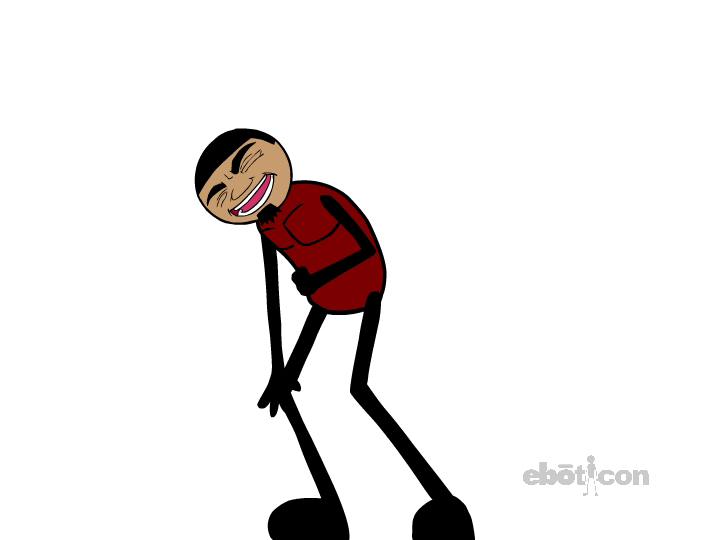
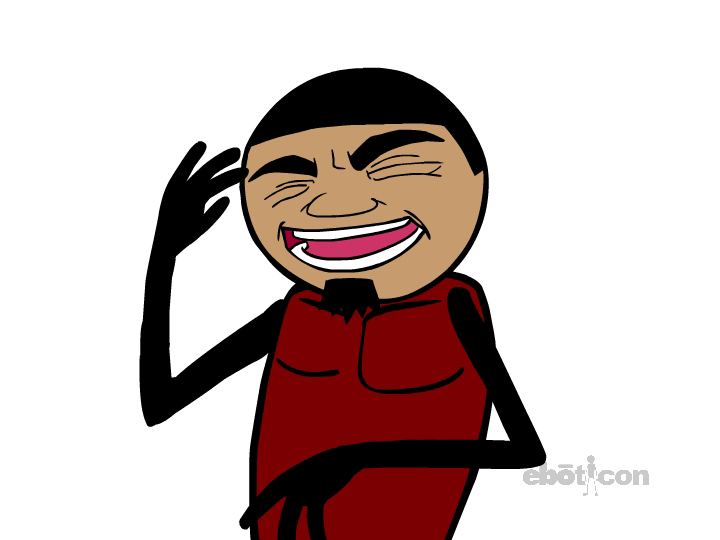
- fix missing gif in cdv file - update i can’t male gif - fix still images

Changed region(s): [[0.1833, 0.1185, 0.7639, 1.0]]

diff --git a/EboticonGifCell.m b/EboticonGifCell.m
@@ -31,7 +31,7 @@
         NSString *gifName = [_cellGif getStillName];
         
         gifName = [gifName substringWithRange:NSMakeRange(0, [gifName length] - 4)];
-        NSString *filepath  = [[NSBundle mainBundle] pathForResource:gifName ofType:@"gif"];
+        NSString *filepath  = [[NSBundle mainBundle] pathForResource:gifName ofType:@"png"];
         NSData *GIFDATA = [NSData dataWithContentsOfFile:filepath];
         _gifImageView.image = [UIImage imageWithData:GIFDATA];
         
